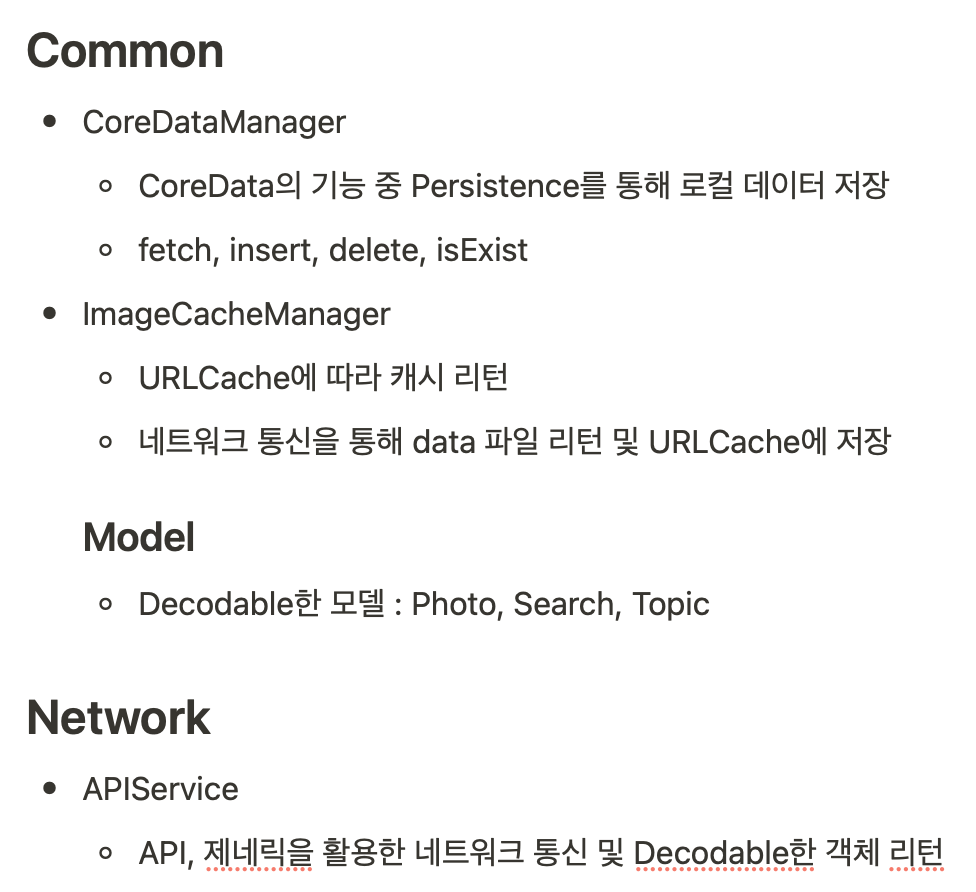
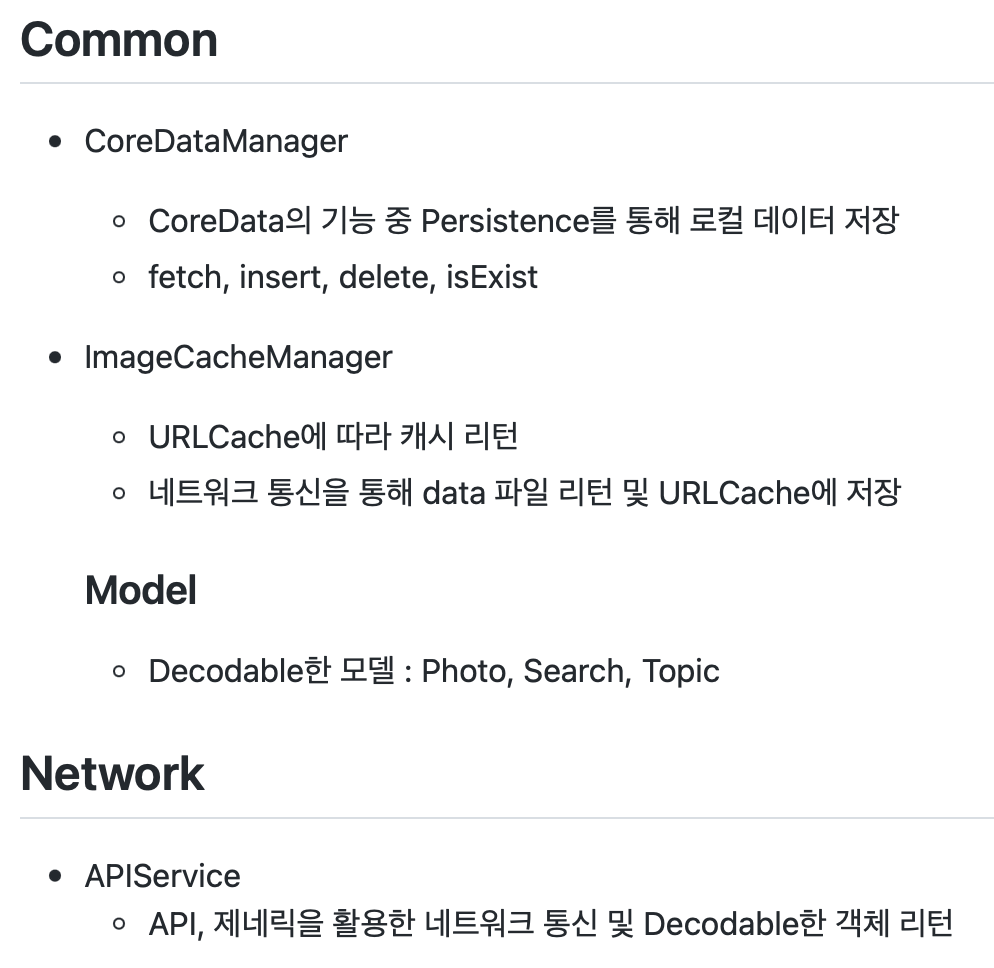
<docs> README 폴더 설명 스크린샷 변경

diff --git a/README.md b/README.md
@@ -51,4 +51,4 @@ Unsplash unofficial app for iOS
 
 |폴더|설명|
 |--|--|
-|<p> <img src="https://github.com/hhhan0315/Unsplash/blob/main/screenshot/intro_file1.png" width="30%"> <br> <img src="https://github.com/hhhan0315/Unsplash/blob/main/screenshot/intro_file2.png" width="30%"> </p>|<p> <img src="https://github.com/hhhan0315/Unsplash/blob/main/screenshot/intro_file_info1.png" width="30%"> <br> <img src="https://github.com/hhhan0315/Unsplash/blob/main/screenshot/intro_file_info2.png" width="30%"> </p>|
+|<p> <img src="https://github.com/hhhan0315/Unsplash/blob/main/screenshot/intro_file1.png"> <br> <img src="https://github.com/hhhan0315/Unsplash/blob/main/screenshot/intro_file2.png"> </p>|<p> <img src="https://github.com/hhhan0315/Unsplash/blob/main/screenshot/intro_file_info1.png"> <br> <img src="https://github.com/hhhan0315/Unsplash/blob/main/screenshot/intro_file_info2.png"> </p>|
